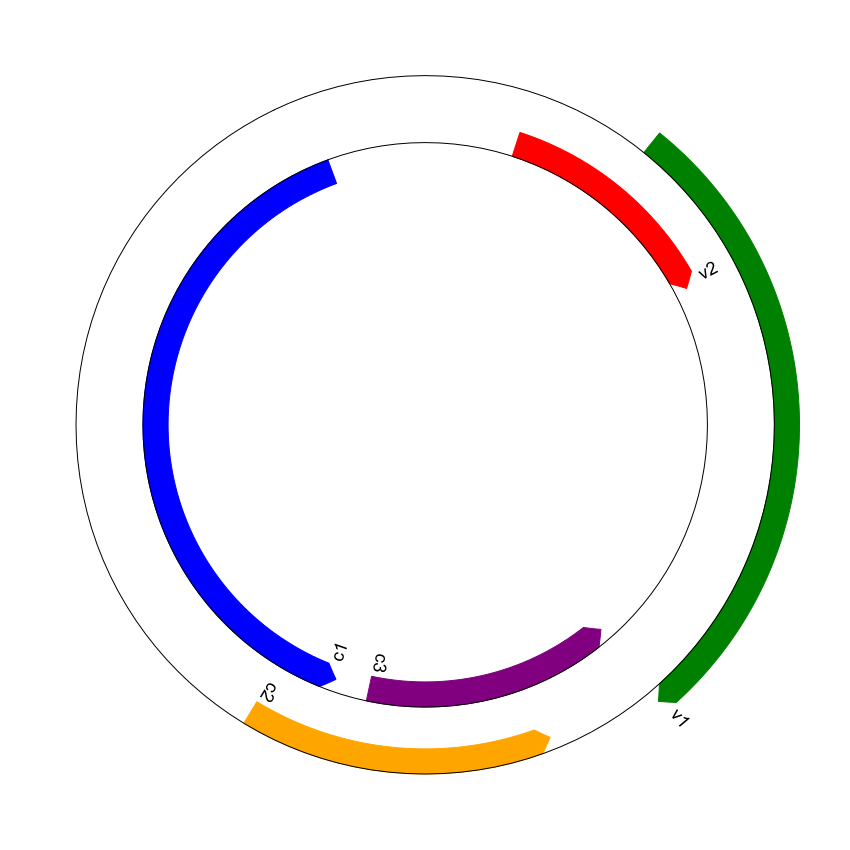
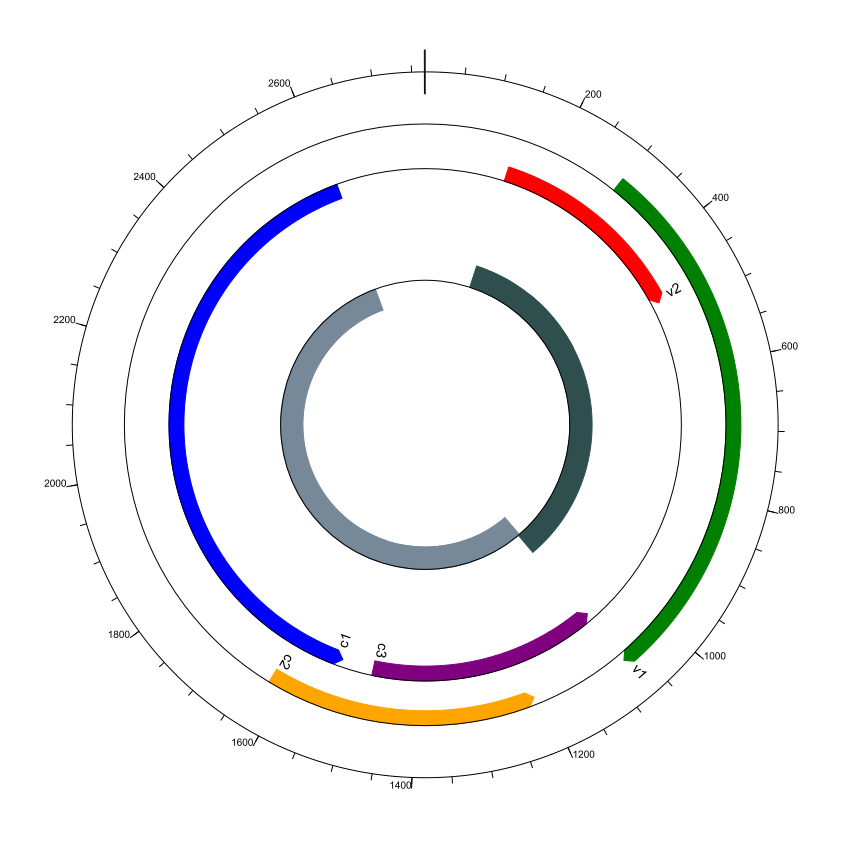
Added new features to diagram

diff --git a/script.py b/script.py
@@ -5,32 +5,52 @@ from Bio.Graphics import GenomeDiagram
 
 record = SeqIO.read("Genome.gb", "genbank")
 
-# creates the diagram object, two track objects, and two feature objects.
+# initializes the diagram
 gd_diagram = GenomeDiagram.Diagram("Tomato curly stunt virus, complete genome.")
-gd_track_for_features = gd_diagram.new_track(1, name="Annotated Features")
-gd_track_for_features_2 = gd_diagram.new_track(2, name= "Annotated Features")
-gd_feature_set = gd_track_for_features.new_set()
-gd_feature_set_2 = gd_track_for_features_2.new_set()
+
+# initializes the first and second track, which are used to display the genome spread out/colored
+first_track = gd_diagram.new_track(3, name="Initial Track", height=0.75)
+second_track = gd_diagram.new_track(4, name="Overlay Track", height=0.75)
+first_feature_set = first_track.new_set()
+second_feature_set = second_track.new_set()
+
+# initializes the outer track which is used for labeling the length of the genome
+label_track = gd_diagram.new_track(5, name="Label Track", scale_smalltick_interval=50, scale_largetick_interval=200,
+                                   start=0, end=len(record), scale_fontsize=10, axis_labels=True)
+label_feature_set = label_track.new_set()
+
+# initializes a blank spacer track
+blank_track = gd_diagram.new_track(2, name="Blank Spacer Track", hide=True)
+blank_feature_set = blank_track.new_set()
+
+# initializes the center track, which shows the two basic directions of the genome
+final_track = gd_diagram.new_track(1, name="Inside Overlay")
+final_feature_set = final_track.new_set()
 
 # initializes the counter variable used for accessing the color list and checking each track
 color_check = 0
 
 col = ["red", "green", "purple", "orange", "blue"]
 
+# adds features to both the spread out tracks and center tracks based off of the counter variable
 for feature in record.features:
     if feature.type == "gene":
-        #places each bar into one of the two tracks
+        # places each bar into one of the two tracks
+        color = col[color_check % 5]
         if color_check % 2 == 0:
-            color = col[color_check % 5]
-            gd_feature_set.add_feature(feature, color=color, label=True, sigil="ARROW", label_size=18, label_angle=-90, arrowshaft_height=1)
+            first_feature_set.add_feature(feature, color=color, label=True, sigil="ARROW", label_size=14,
+                                          label_angle=-90, arrowshaft_height=1)
         else:
-            color = col[color_check % 5]
-            gd_feature_set_2.add_feature(feature, color=color, label=True, sigil="ARROW", label_size=18, arrowshaft_height=1, label_angle=-90)
-        color_check +=1
+            second_feature_set.add_feature(feature, color=color, label=True, sigil="ARROW", label_size=14,
+                                           arrowshaft_height=1, label_angle=-90)
+        if color_check < 2:
+            final_feature_set.add_feature(feature, color="darkslategrey")
+        else:
+            final_feature_set.add_feature(feature, color="lightslategrey")
+        color_check += 1
 
 # check the levels to make sure data was placed in the correct track
-print(gd_diagram.get_levels())
-
+# print(gd_diagram.get_levels())
 
 # drawing and writing the diagram
 gd_diagram.draw(
@@ -39,6 +59,6 @@ gd_diagram.draw(
     pagesize=(30 * cm, 30 * cm),
     start=0,
     end=len(record),
-    circle_core=0.65,
+    circle_core=0.3,
 )
 gd_diagram.write("tomato_curly_stunt_virus.png", "PNG")
